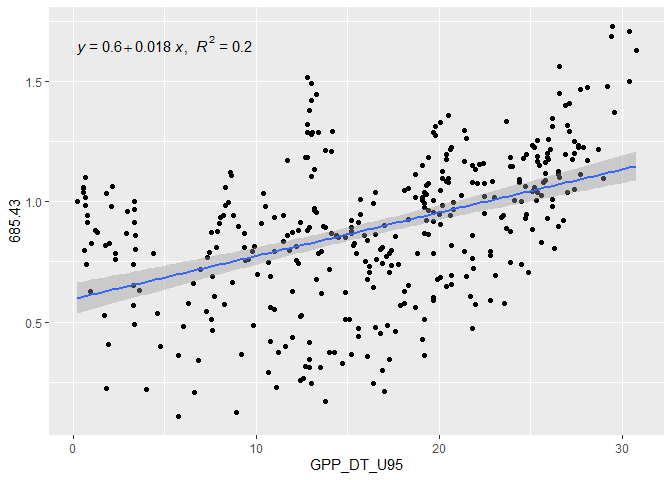
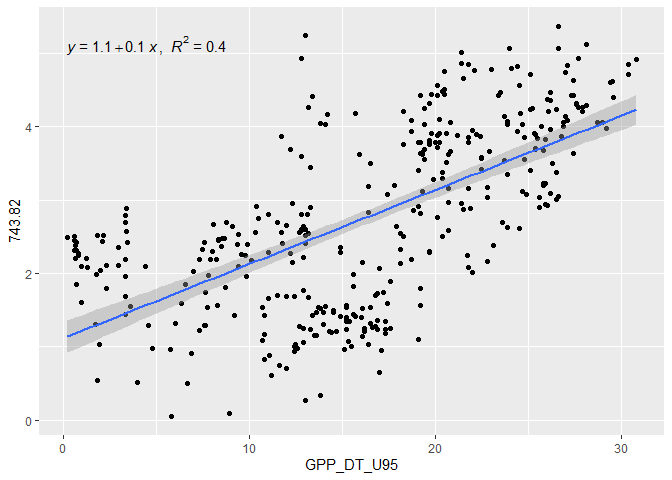
26/10. Update 2

diff --git a/README.md b/README.md
@@ -157,55 +157,8 @@ colnames(fint) <- "Fint"
 df_final <- cbind(df_final,fint)
 ```
 
-Before going plot the data, first we are gonna make a subset for some
-variables
-
-``` r
-df_final_sub <- df_final |>
-  dplyr::select(
-    Group.1, day, Hr1, L750_Wm2nm1sr1, SZA, PAR_Wm2,
-    `685.43`,`743.82`, Fint,
-    FCO2,ET,NEE,Tair,Tsoil,NEE_orig,rH_orig,
-    GPP_f, GPP_U05_f, GPP_U50_f,GPP_U95_f, GPP_DT, GPP_DT_SD,
-    GPP_DT_U95, GPP_DT_U95_SD, GPP_DT_U50, GPP_DT_U50_SD,GPP_DT_U05, GPP_DT_U05_SD
-
-  ) |> 
-  dplyr::glimpse()
-```
-
-    ## Rows: 376
-    ## Columns: 28
-    ## $ Group.1        <fct> 2018-05-12 09:00:12, 2018-05-12 09:30:12, 2018-05-12 10~
-    ## $ day            <dbl> 132, 132, 132, 132, 132, 132, 132, 132, 132, 132, 132, ~
-    ## $ Hr1            <int> 9, 9, 10, 10, 11, 11, 12, 12, 13, 13, 14, 14, 15, 15, 1~
-    ## $ L750_Wm2nm1sr1 <dbl> 0.30742885, 0.32451641, 0.33455608, 0.34120232, 0.34359~
-    ## $ SZA            <dbl> 34.95596, 30.81628, 27.45133, 25.35580, 24.71953, 25.69~
-    ## $ PAR_Wm2        <dbl> 364.37724, 387.53816, 403.78000, 413.90729, 417.90639, ~
-    ## $ `685.43`       <dbl> 1.0169006, 1.0777418, 1.0466246, 1.0804593, 1.0836567, ~
-    ## $ `743.82`       <dbl> 4.089323, 4.242339, 4.425685, 4.502813, 4.481843, 4.436~
-    ## $ Fint           <dbl> 228.78261, 238.46129, 245.18687, 250.34240, 249.73322, ~
-    ## $ FCO2           <dbl> -7.08e-07, -6.87e-07, -6.93e-07, -5.58e-07, -5.08e-07, ~
-    ## $ ET             <dbl> NA, NA, 0.000122369, NA, NA, NA, 0.000097600, NA, NA, N~
-    ## $ NEE            <dbl> -16.1000, -15.6000, -15.7000, -12.7000, -11.6000, -13.3~
-    ## $ Tair           <dbl> NA, NA, 19.9099, NA, NA, NA, 22.9810, NA, NA, NA, NA, N~
-    ## $ Tsoil          <dbl> NA, NA, 21.8680, NA, NA, NA, 24.3686, NA, NA, NA, NA, N~
-    ## $ NEE_orig       <dbl> -16.0820, -15.6160, -15.7490, -12.6750, -11.5520, -13.3~
-    ## $ rH_orig        <dbl> 82.8187, 81.1107, 73.8973, 72.4677, 70.3815, 66.6237, 6~
-    ## $ GPP_f          <dbl> 24.7, 24.6, 24.5, 22.0, 21.3, 23.2, 20.3, 18.2, 20.4, 1~
-    ## $ GPP_U05_f      <dbl> 23.7, 23.6, 23.6, 21.0, 20.2, 22.1, 19.2, 17.2, 19.4, 1~
-    ## $ GPP_U50_f      <dbl> 24.6, 24.4, 24.4, 21.8, 21.1, 23.0, 20.1, 18.0, 20.2, 1~
-    ## $ GPP_U95_f      <dbl> 26.1, 26.1, 26.0, 23.7, 23.1, 25.1, 22.1, 19.6, 22.0, 1~
-    ## $ GPP_DT         <dbl> 18.8, 19.5, 20.1, 20.5, 20.5, 20.5, 20.8, 19.3, 20.2, 1~
-    ## $ GPP_DT_SD      <dbl> 1.4265, 1.4120, 1.3955, 1.3790, 1.3648, 1.3516, 1.3411,~
-    ## $ GPP_DT_U95     <dbl> 18.7, 19.4, 20.1, 20.5, 20.4, 20.5, 20.8, 19.2, 20.1, 1~
-    ## $ GPP_DT_U95_SD  <dbl> 1.8851, 1.8744, 1.8599, 1.8431, 1.8264, 1.8102, 1.7953,~
-    ## $ GPP_DT_U50     <dbl> 17.8, 18.5, 19.1, 19.5, 19.5, 19.6, 19.8, 18.3, 19.2, 1~
-    ## $ GPP_DT_U50_SD  <dbl> 1.8059, 1.7984, 1.7868, 1.7726, 1.7575, 1.7427, 1.7285,~
-    ## $ GPP_DT_U05     <dbl> 19.1, 19.8, 20.4, 20.7, 20.7, 20.8, 21.0, 19.6, 20.4, 1~
-    ## $ GPP_DT_U05_SD  <dbl> 1.2953, 1.2757, 1.2553, 1.2366, 1.2223, 1.2097, 1.2013,~
-
-Also we need another transformations to a correlation plot for all the
-Fluoresce spectra
+Before going plot the data, first we need another transformations to do
+a correlation plot for all the Fluoresce spectra
 
 ``` r
 fint_t <- vector("numeric", length = 377)
@@ -254,15 +207,9 @@ correl[,2] <- spectra_Table$spectra
 
 # **Plots**
 
-## **Correlation heat-map**
+## **Correlations plots**
 
-``` r
-df_final_sub[,-1] |>
-  cor(use = "p") |>
-  corrplot::corrplot()
-```
-
-![](README_files/figure-gfm/unnamed-chunk-11-1.png)<!-- -->
+### **Corellation for the whole spectra**
 
 Ploting correlation in the Fluoresce spectra, without F integral.
 `F integral r = 0.65`
@@ -272,6 +219,45 @@ correl[-c(683:684),] |>
   ggplot2::ggplot(ggplot2::aes(x=as.numeric(V2), y = cor))+
   ggplot2::geom_point()+
   ggplot2::xlab(label="Fluorescence Spectra in nm")
+```
+
+![](README_files/figure-gfm/unnamed-chunk-10-1.png)<!-- -->
+
+Now we can subset the data frame for the most **importants wavelength**,
+`685nm`,`720nm`, `740nm` and `F integral`, and with the `GPP` data
+include for the `Day Time (DT)` observations
+
+``` r
+df_final_sub <- df_final |>
+  dplyr::select(
+    Group.1, day, Hr1, L750_Wm2nm1sr1, SZA, PAR_Wm2,
+    `685.43`,`720.07` ,`743.82`, Fint,
+    GPP_DT, GPP_DT_U95, GPP_DT_U50,GPP_DT_U05
+  ) |> 
+  dplyr::glimpse()
+```
+
+    ## Rows: 376
+    ## Columns: 14
+    ## $ Group.1        <fct> 2018-05-12 09:00:12, 2018-05-12 09:30:12, 2018-05-12 10~
+    ## $ day            <dbl> 132, 132, 132, 132, 132, 132, 132, 132, 132, 132, 132, ~
+    ## $ Hr1            <int> 9, 9, 10, 10, 11, 11, 12, 12, 13, 13, 14, 14, 15, 15, 1~
+    ## $ L750_Wm2nm1sr1 <dbl> 0.30742885, 0.32451641, 0.33455608, 0.34120232, 0.34359~
+    ## $ SZA            <dbl> 34.95596, 30.81628, 27.45133, 25.35580, 24.71953, 25.69~
+    ## $ PAR_Wm2        <dbl> 364.37724, 387.53816, 403.78000, 413.90729, 417.90639, ~
+    ## $ `685.43`       <dbl> 1.0169006, 1.0777418, 1.0466246, 1.0804593, 1.0836567, ~
+    ## $ `720.07`       <dbl> 1.7525774, 1.8323982, 1.8706490, 1.9075834, 1.9054034, ~
+    ## $ `743.82`       <dbl> 4.089323, 4.242339, 4.425685, 4.502813, 4.481843, 4.436~
+    ## $ Fint           <dbl> 228.78261, 238.46129, 245.18687, 250.34240, 249.73322, ~
+    ## $ GPP_DT         <dbl> 18.8, 19.5, 20.1, 20.5, 20.5, 20.5, 20.8, 19.3, 20.2, 1~
+    ## $ GPP_DT_U95     <dbl> 18.7, 19.4, 20.1, 20.5, 20.4, 20.5, 20.8, 19.2, 20.1, 1~
+    ## $ GPP_DT_U50     <dbl> 17.8, 18.5, 19.1, 19.5, 19.5, 19.6, 19.8, 18.3, 19.2, 1~
+    ## $ GPP_DT_U05     <dbl> 19.1, 19.8, 20.4, 20.7, 20.7, 20.8, 21.0, 19.6, 20.4, 1~
+
+``` r
+df_final_sub[,-c(1:3)] |> #excluding the time for the Pearson correlation 
+  cor(use = "p") |>
+  corrplot::corrplot()
 ```
 
 ![](README_files/figure-gfm/unnamed-chunk-12-1.png)<!-- -->
@@ -308,6 +294,8 @@ df_final_sub |>
 
 ![](README_files/figure-gfm/unnamed-chunk-14-1.png)<!-- -->
 
+Controlling by the hours between 11:00 AM and 01:00 PM
+
 ``` r
 df_final_sub |>
   dplyr::filter(Hr1 > 10 & Hr1 < 14) |> 
@@ -324,8 +312,8 @@ df_final_sub |>
 
 ``` r
 df_final_sub |> 
-  ggplot2::ggplot(ggplot2::aes(x=GPP_DT_U95, y= `743.82`))+
-  ggplot2::geom_point()+
+  ggplot2::ggplot(ggplot2::aes(x=GPP_DT_U95, y= Fint))+
+  ggplot2::geom_jitter(ggplot2::aes(colour=as.factor(day)))+
   ggplot2::geom_smooth(method = "lm")+
   ggpubr::stat_regline_equation(ggplot2::aes(
   label =  paste(..eq.label.., ..rr.label.., sep = "*plain(\",\")~~")))
@@ -337,7 +325,7 @@ df_final_sub |>
 
 ``` r
 df_final_sub |> 
-  ggplot2::ggplot(ggplot2::aes(x=GPP_DT_U95, y= `685.43`))+
+  ggplot2::ggplot(ggplot2::aes(x=GPP_DT_U95, y= `743.82`))+
   ggplot2::geom_point()+
   ggplot2::geom_smooth(method = "lm")+
   ggpubr::stat_regline_equation(ggplot2::aes(
@@ -350,10 +338,23 @@ df_final_sub |>
 
 ``` r
 df_final_sub |> 
+  ggplot2::ggplot(ggplot2::aes(x=GPP_DT_U95, y= `685.43`))+
+  ggplot2::geom_point()+
+  ggplot2::geom_smooth(method = "lm")+
+  ggpubr::stat_regline_equation(ggplot2::aes(
+  label =  paste(..eq.label.., ..rr.label.., sep = "*plain(\",\")~~")))
+```
+
+    ## `geom_smooth()` using formula 'y ~ x'
+
+![](README_files/figure-gfm/unnamed-chunk-18-1.png)<!-- -->
+
+``` r
+df_final_sub |> 
   ggplot2::ggplot(ggplot2::aes(x=GPP_DT_U95, y= Fint))+
   ggplot2::geom_point()+
   ggplot2::geom_smooth(method = "lm")+
-  ggplot2::facet_wrap(~day)+
+  ggplot2::facet_wrap(~day, scales = "free")+
   ggplot2::theme_classic()+
   ggpubr::stat_regline_equation(ggplot2::aes(
   label =  paste(..rr.label..)))
@@ -361,7 +362,22 @@ df_final_sub |>
 
     ## `geom_smooth()` using formula 'y ~ x'
 
-![](README_files/figure-gfm/unnamed-chunk-18-1.png)<!-- -->
+![](README_files/figure-gfm/unnamed-chunk-19-1.png)<!-- -->
+
+``` r
+df_final_sub |> 
+  ggplot2::ggplot(ggplot2::aes(x=GPP_DT_U95, y= `720.07`))+
+  ggplot2::geom_point()+
+  ggplot2::geom_smooth(method = "lm")+
+  ggplot2::facet_wrap(~day, scales = "free")+
+  ggplot2::theme_classic()+
+  ggpubr::stat_regline_equation(ggplot2::aes(
+  label =  paste(..rr.label..)))
+```
+
+    ## `geom_smooth()` using formula 'y ~ x'
+
+![](README_files/figure-gfm/unnamed-chunk-20-1.png)<!-- -->
 
 # **Clounds and reflectance**
 
@@ -380,99 +396,99 @@ for(i in c(132,139,145,146,161,171,177,181,182,183,187,188,189,190,191,
 
     ## `geom_smooth()` using method = 'loess' and formula 'y ~ x'
 
-![](README_files/figure-gfm/unnamed-chunk-19-1.png)<!-- -->
+![](README_files/figure-gfm/unnamed-chunk-21-1.png)<!-- -->
 
     ## `geom_smooth()` using method = 'loess' and formula 'y ~ x'
 
-![](README_files/figure-gfm/unnamed-chunk-19-2.png)<!-- -->
+![](README_files/figure-gfm/unnamed-chunk-21-2.png)<!-- -->
 
     ## `geom_smooth()` using method = 'loess' and formula 'y ~ x'
 
-![](README_files/figure-gfm/unnamed-chunk-19-3.png)<!-- -->
+![](README_files/figure-gfm/unnamed-chunk-21-3.png)<!-- -->
 
     ## `geom_smooth()` using method = 'loess' and formula 'y ~ x'
 
-![](README_files/figure-gfm/unnamed-chunk-19-4.png)<!-- -->
+![](README_files/figure-gfm/unnamed-chunk-21-4.png)<!-- -->
 
     ## `geom_smooth()` using method = 'loess' and formula 'y ~ x'
 
-![](README_files/figure-gfm/unnamed-chunk-19-5.png)<!-- -->
+![](README_files/figure-gfm/unnamed-chunk-21-5.png)<!-- -->
 
     ## `geom_smooth()` using method = 'loess' and formula 'y ~ x'
 
-![](README_files/figure-gfm/unnamed-chunk-19-6.png)<!-- -->
+![](README_files/figure-gfm/unnamed-chunk-21-6.png)<!-- -->
 
     ## `geom_smooth()` using method = 'loess' and formula 'y ~ x'
 
-![](README_files/figure-gfm/unnamed-chunk-19-7.png)<!-- -->
+![](README_files/figure-gfm/unnamed-chunk-21-7.png)<!-- -->
 
     ## `geom_smooth()` using method = 'loess' and formula 'y ~ x'
 
-![](README_files/figure-gfm/unnamed-chunk-19-8.png)<!-- -->
+![](README_files/figure-gfm/unnamed-chunk-21-8.png)<!-- -->
 
     ## `geom_smooth()` using method = 'loess' and formula 'y ~ x'
 
-![](README_files/figure-gfm/unnamed-chunk-19-9.png)<!-- -->
+![](README_files/figure-gfm/unnamed-chunk-21-9.png)<!-- -->
 
     ## `geom_smooth()` using method = 'loess' and formula 'y ~ x'
 
-![](README_files/figure-gfm/unnamed-chunk-19-10.png)<!-- -->
+![](README_files/figure-gfm/unnamed-chunk-21-10.png)<!-- -->
 
     ## `geom_smooth()` using method = 'loess' and formula 'y ~ x'
 
-![](README_files/figure-gfm/unnamed-chunk-19-11.png)<!-- -->
+![](README_files/figure-gfm/unnamed-chunk-21-11.png)<!-- -->
 
     ## `geom_smooth()` using method = 'loess' and formula 'y ~ x'
 
-![](README_files/figure-gfm/unnamed-chunk-19-12.png)<!-- -->
+![](README_files/figure-gfm/unnamed-chunk-21-12.png)<!-- -->
 
     ## `geom_smooth()` using method = 'loess' and formula 'y ~ x'
 
-![](README_files/figure-gfm/unnamed-chunk-19-13.png)<!-- -->
+![](README_files/figure-gfm/unnamed-chunk-21-13.png)<!-- -->
 
     ## `geom_smooth()` using method = 'loess' and formula 'y ~ x'
 
-![](README_files/figure-gfm/unnamed-chunk-19-14.png)<!-- -->
+![](README_files/figure-gfm/unnamed-chunk-21-14.png)<!-- -->
 
     ## `geom_smooth()` using method = 'loess' and formula 'y ~ x'
 
-![](README_files/figure-gfm/unnamed-chunk-19-15.png)<!-- -->
+![](README_files/figure-gfm/unnamed-chunk-21-15.png)<!-- -->
 
     ## `geom_smooth()` using method = 'loess' and formula 'y ~ x'
 
-![](README_files/figure-gfm/unnamed-chunk-19-16.png)<!-- -->
+![](README_files/figure-gfm/unnamed-chunk-21-16.png)<!-- -->
 
     ## `geom_smooth()` using method = 'loess' and formula 'y ~ x'
 
-![](README_files/figure-gfm/unnamed-chunk-19-17.png)<!-- -->
+![](README_files/figure-gfm/unnamed-chunk-21-17.png)<!-- -->
 
     ## `geom_smooth()` using method = 'loess' and formula 'y ~ x'
 
-![](README_files/figure-gfm/unnamed-chunk-19-18.png)<!-- -->
+![](README_files/figure-gfm/unnamed-chunk-21-18.png)<!-- -->
 
     ## `geom_smooth()` using method = 'loess' and formula 'y ~ x'
 
-![](README_files/figure-gfm/unnamed-chunk-19-19.png)<!-- -->
+![](README_files/figure-gfm/unnamed-chunk-21-19.png)<!-- -->
 
     ## `geom_smooth()` using method = 'loess' and formula 'y ~ x'
 
-![](README_files/figure-gfm/unnamed-chunk-19-20.png)<!-- -->
+![](README_files/figure-gfm/unnamed-chunk-21-20.png)<!-- -->
 
     ## `geom_smooth()` using method = 'loess' and formula 'y ~ x'
 
-![](README_files/figure-gfm/unnamed-chunk-19-21.png)<!-- -->
+![](README_files/figure-gfm/unnamed-chunk-21-21.png)<!-- -->
 
     ## `geom_smooth()` using method = 'loess' and formula 'y ~ x'
 
-![](README_files/figure-gfm/unnamed-chunk-19-22.png)<!-- -->
+![](README_files/figure-gfm/unnamed-chunk-21-22.png)<!-- -->
 
     ## `geom_smooth()` using method = 'loess' and formula 'y ~ x'
 
-![](README_files/figure-gfm/unnamed-chunk-19-23.png)<!-- -->
+![](README_files/figure-gfm/unnamed-chunk-21-23.png)<!-- -->
 
     ## `geom_smooth()` using method = 'loess' and formula 'y ~ x'
 
-![](README_files/figure-gfm/unnamed-chunk-19-24.png)<!-- -->
+![](README_files/figure-gfm/unnamed-chunk-21-24.png)<!-- -->
 
 Here we are gonna see how the reflectance of the canopy are changing,
 and for this we are gonna use the NDVI and NDVI red-edge
@@ -598,7 +614,7 @@ ndvi |>
                       , colour="red")
 ```
 
-![](README_files/figure-gfm/unnamed-chunk-24-1.png)<!-- -->
+![](README_files/figure-gfm/unnamed-chunk-26-1.png)<!-- -->
 
 ## **NDVI Red Edge**
 
@@ -611,7 +627,7 @@ ndvi_r |>
                       , colour="red")
 ```
 
-![](README_files/figure-gfm/unnamed-chunk-25-1.png)<!-- -->
+![](README_files/figure-gfm/unnamed-chunk-27-1.png)<!-- -->
 
 # **Interpreting**
 
